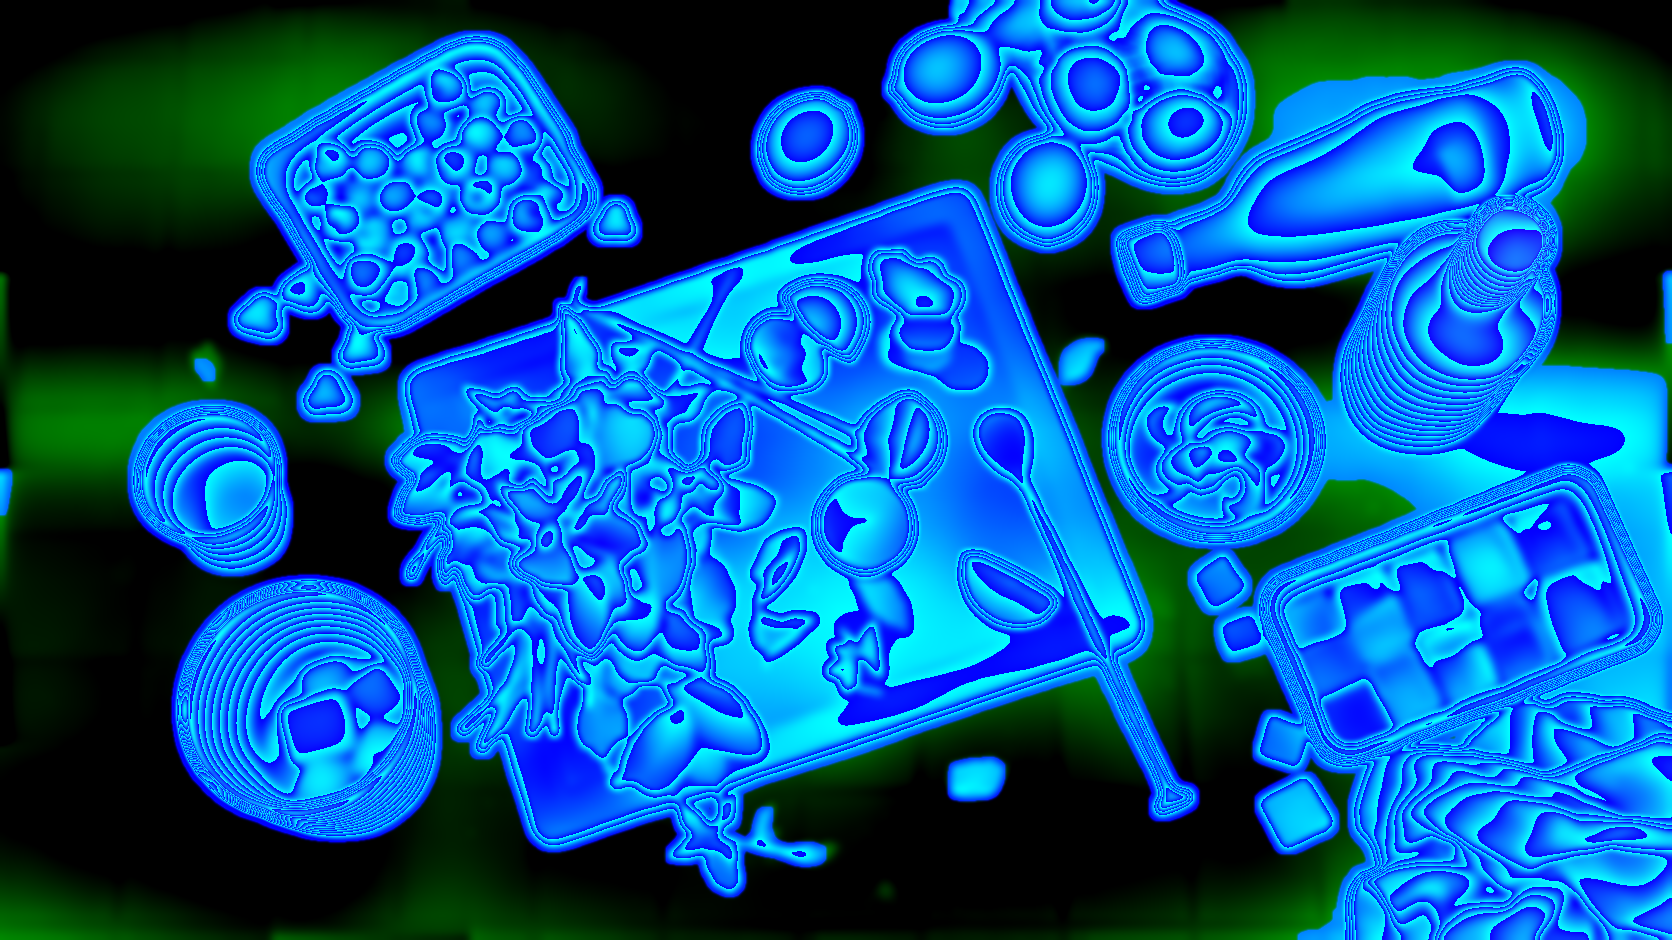
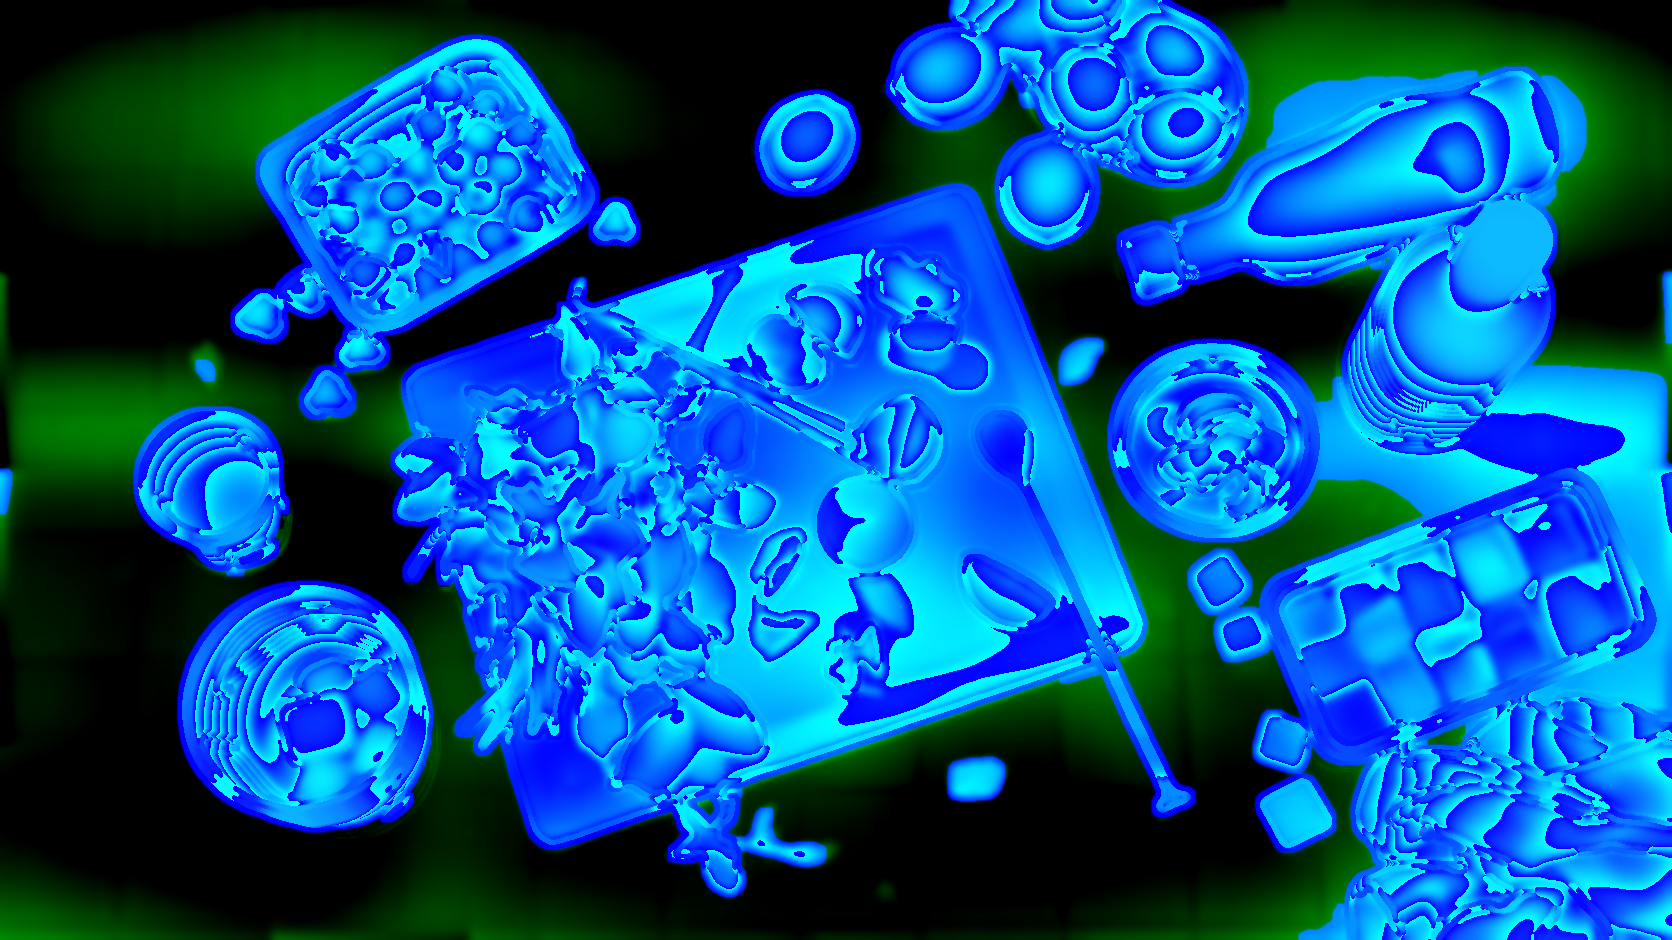
Fix the smearing bottle: sharp depth edges, shadowed gaps
- Depth data: soft knee on extreme heights (the standing red bottle was read
  as a 440 px spike) and min/max snapping turns soft ramps at object edges
  into clean steps
- New assets/behind.jpg: the colour just beyond each depth step
- Mesh no longer drops edge quads (that revealed the wrong layer, e.g. tiles
  through the board); the shader detects cliff triangles from the true height
  gradient over the photo and paints them with the darkened behind colour,
  so openings read as the object's shadow instead of a smear

Claude-Session: https://claude.ai/code/session_018KHXQH9KxvDLoAaCGYyVxC

Changed region(s): [[0.0622, 0.0, 1.0, 1.0], [0.4976, 0.6479, 0.5287, 0.7404]]

diff --git a/index.html b/index.html
@@ -269,12 +269,11 @@ function buildPhotoMesh(photoBmp, heightBmp){
     V[o + 3] = (px + 0.5) / W; V[o + 4] = (py + 0.5) / H;
   }
   // quads, skipping real depth edges; ordered low to high so soft edges blend over what's beneath
-  const CUT = 30, qa = [], qk = []; let hmax = 1;
+  const qa = [], qk = []; let hmax = 1;
   for (let gj = 0; gj < GH - 1; gj++) for (let gi = 0; gi < GW - 1; gi++){
     const a = gj * GW + gi, b = a + 1, c = a + GW, d = c + 1;
     if (idx[a] < 0 || idx[b] < 0 || idx[c] < 0 || idx[d] < 0) continue;
-    const lo = Math.min(vh[a], vh[b], vh[c], vh[d]), hi = Math.max(vh[a], vh[b], vh[c], vh[d]);
-    if (hi - lo > CUT) continue;
+    const hi = Math.max(vh[a], vh[b], vh[c], vh[d]);
     qa.push(a); qk.push(hi); if (hi > hmax) hmax = hi;
   }
   const NQ = qa.length, B = 1024, cnt = new Uint32Array(B + 1), keys = new Uint16Array(NQ);
@@ -506,30 +505,39 @@ const SPL = program(VS, FS, ["u_tex", "u_proj", "u_eye", "u_rot", "u_focal", "u_
 const BG = program(BG_VS, BG_FS, ["u_proj", "u_eye", "u_rot", "u_rect", "u_z", "u_bg"]);
 const MESH_VS = `#version 300 es
 precision highp float;
-uniform mat4 u_proj; uniform vec3 u_eye; uniform vec2 u_rot; uniform float u_depth, u_zt, u_eyez;
+uniform mat4 u_proj; uniform vec3 u_eye; uniform vec2 u_rot; uniform float u_depth, u_zt, u_eyez, u_pxs;
 layout(location = 0) in vec3 a_p;     // x, y on the tiles and height, in world units
 layout(location = 1) in vec2 a_uv;
-out vec2 v_uv;
+out vec2 v_uv; out float v_h;
 void main(){
   float z = -u_zt + a_p.z * u_depth;
   float f = (u_eyez - z) / (u_eyez + u_zt);                     // slide along the camera's ray: exact photo at rest
   vec3 cam = vec3(a_p.xy * f, z) - u_eye;
   cam.xy = vec2(u_rot.x * cam.x - u_rot.y * cam.y, u_rot.y * cam.x + u_rot.x * cam.y);
   gl_Position = u_proj * vec4(cam, 1.0);
-  v_uv = a_uv;
+  v_uv = a_uv; v_h = a_p.z * u_pxs;                           // height in photo pixels
 }`;
 const MESH_FS = `#version 300 es
 precision highp float;
-uniform sampler2D u_photo, u_mask; uniform vec2 u_img;
-in vec2 v_uv; out vec4 o;
+uniform sampler2D u_photo, u_mask, u_behind; uniform vec2 u_img;
+in vec2 v_uv; in float v_h; out vec4 o;
 void main(){
   vec2 px = v_uv * u_img;
   float bd = min(min(px.x, u_img.x - px.x), min(px.y, u_img.y - px.y));
   float a = texture(u_mask, v_uv).b * smoothstep(0.0, 40.0, bd);  // objects dissolve at the photo's very edge
   if (a < 0.01) discard;
-  o = vec4(texture(u_photo, v_uv).rgb * a, a);
+  // height change per photo pixel: ~0-3 on real surfaces, 10+ on the cliff joining an object to what's behind it.
+  // Cliffs get stretched open when you lean, so paint them with the colour of the surface behind.
+  // true gradient of height over the photo (chain rule through the screen-space Jacobian), so it
+  // stays correct however far the triangle has been stretched on screen
+  float hx = dFdx(v_h), hy = dFdy(v_h), ux = dFdx(px.x), uy = dFdy(px.x), vx = dFdx(px.y), vy = dFdy(px.y);
+  float det = ux * vy - vx * uy;
+  float slope = abs(det) < 1e-9 ? 99.0 : length(vec2(hx * vy - hy * vx, hy * ux - hx * uy)) / abs(det);
+  float cliff = smoothstep(4.0, 9.0, slope);
+  vec3 col = mix(texture(u_photo, v_uv).rgb, texture(u_behind, v_uv).rgb * 0.58, cliff);   // what's just behind an object sits in its shadow
+  o = vec4(col * a, a);
 }`;
-const MESH = program(MESH_VS, MESH_FS, ["u_proj", "u_eye", "u_rot", "u_depth", "u_zt", "u_eyez", "u_photo", "u_mask", "u_img"]);
+const MESH = program(MESH_VS, MESH_FS, ["u_proj", "u_eye", "u_rot", "u_depth", "u_zt", "u_eyez", "u_pxs", "u_photo", "u_mask", "u_behind", "u_img"]);
 function texFrom(bmp, unit, mips){
   const t = gl.createTexture(); gl.activeTexture(gl.TEXTURE0 + unit); gl.bindTexture(gl.TEXTURE_2D, t);
   gl.pixelStorei(gl.UNPACK_COLORSPACE_CONVERSION_WEBGL, gl.NONE); gl.pixelStorei(gl.UNPACK_PREMULTIPLY_ALPHA_WEBGL, false);
@@ -541,14 +549,14 @@ function texFrom(bmp, unit, mips){
   else gl.texParameteri(gl.TEXTURE_2D, gl.TEXTURE_MIN_FILTER, gl.LINEAR);
   gl.activeTexture(gl.TEXTURE0); return t;
 }
-function uploadMesh(M, photoBmp, heightBmp){
+function uploadMesh(M, photoBmp, heightBmp, behindBmp){
   const vao2 = gl.createVertexArray(); gl.bindVertexArray(vao2);
   const vb = gl.createBuffer(); gl.bindBuffer(gl.ARRAY_BUFFER, vb); gl.bufferData(gl.ARRAY_BUFFER, M.V, gl.STATIC_DRAW);
   gl.enableVertexAttribArray(0); gl.vertexAttribPointer(0, 3, gl.FLOAT, false, 20, 0);
   gl.enableVertexAttribArray(1); gl.vertexAttribPointer(1, 2, gl.FLOAT, false, 20, 12);
   const ib = gl.createBuffer(); gl.bindBuffer(gl.ELEMENT_ARRAY_BUFFER, ib); gl.bufferData(gl.ELEMENT_ARRAY_BUFFER, M.I, gl.STATIC_DRAW);
   gl.bindVertexArray(null);
-  mesh = { vao: vao2, count: M.I.length, n: M.n, W: M.W, H: M.H, photo: texFrom(photoBmp, 2, true), mask: texFrom(heightBmp, 3, false) };
+  mesh = { vao: vao2, count: M.I.length, n: M.n, W: M.W, H: M.H, photo: texFrom(photoBmp, 2, true), mask: texFrom(heightBmp, 3, false), behind: texFrom(behindBmp, 4, true) };
   gl.bindVertexArray(vao);
 }
 const U = SPL.u;
@@ -843,7 +851,7 @@ function frame(now){
     gl.useProgram(MESH.p);
     gl.uniformMatrix4fv(MESH.u.u_proj, false, proj); gl.uniform3f(MESH.u.u_eye, head.x, head.y, head.z); gl.uniform2f(MESH.u.u_rot, rc, rs);
     gl.uniform1f(MESH.u.u_depth, depthNow()); gl.uniform1f(MESH.u.u_zt, ZT); gl.uniform1f(MESH.u.u_eyez, EYE_Z);
-    gl.uniform1i(MESH.u.u_photo, 2); gl.uniform1i(MESH.u.u_mask, 3); gl.uniform2f(MESH.u.u_img, mesh.W, mesh.H);
+    gl.uniform1i(MESH.u.u_photo, 2); gl.uniform1i(MESH.u.u_mask, 3); gl.uniform1i(MESH.u.u_behind, 4); gl.uniform1f(MESH.u.u_pxs, 1 / photoGeo.s); gl.uniform2f(MESH.u.u_img, mesh.W, mesh.H);
     gl.enable(gl.DEPTH_TEST); gl.depthFunc(gl.LEQUAL); gl.depthMask(true);
     gl.enable(gl.BLEND); gl.blendFunc(gl.ONE, gl.ONE_MINUS_SRC_ALPHA);
     gl.bindVertexArray(mesh.vao); gl.drawElements(gl.TRIANGLES, mesh.count, gl.UNSIGNED_INT, 0); gl.bindVertexArray(vao);
@@ -903,13 +911,13 @@ async function boot(){
   try {
     const step = (t) => { $("loadstep").textContent = t; };
     step("loading photo");
-    const [photo, height, table] = await Promise.all([loadImage("assets/photo.jpg"), loadImage("assets/height.png"), loadImage("assets/table.jpg")]);
+    const [photo, height, table, behind] = await Promise.all([loadImage("assets/photo.jpg"), loadImage("assets/height.png"), loadImage("assets/table.jpg"), loadImage("assets/behind.jpg")]);
     step("lifting it into depth");
     await new Promise(r => setTimeout(r, 20));
     const t0 = performance.now();
     const M = buildPhotoMesh(photo, height);
     uploadBackground(table);
-    uploadMesh(M, photo, height);
+    uploadMesh(M, photo, height, behind);
     showPhoto();
     window.__window.buildMs = Math.round(performance.now() - t0);
     $("loader").classList.add("done");

diff --git a/tools/prep.py b/tools/prep.py
@@ -24,6 +24,39 @@ tn = h[sel.reshape(H,W)]; print('rim res', rim, 'k', k, 'bottle cap px', np.perc
 guide = cv2.cvtColor(img, cv2.COLOR_BGR2RGB).astype(np.float32) / 255
 hg = cv2.ximgproc.guidedFilter(guide, h.astype(np.float32), 4, 25.0)
 hg = np.maximum(hg, 0)
+# 3b) tame extreme heights with a soft knee: a standing bottle seen slightly from the side reads as a
+#     huge spike to a monocular depth model, and a spike that tall smears when you lean
+K0, K1 = 120.0, 100.0
+hg = np.where(hg > K0, K0 + K1 * np.tanh((hg - K0) / K1), hg).astype(np.float32)
+# 3c) turn soft depth ramps at object edges into clean steps (snap each edge pixel to the nearer of the
+#     local min/max), so objects separate from what's behind them instead of dragging it along
+ker = np.ones((9, 9), np.uint8)
+for _ in range(3):
+    mx = cv2.dilate(hg, ker); mn = cv2.erode(hg, ker)
+    edge = (mx - mn) > 20
+    snap = np.where(hg - mn < mx - hg, mn, mx)
+    hg = np.where(edge, snap, hg).astype(np.float32)
+hg = cv2.medianBlur(hg, 5)
+# 3d) "behind" colours for cliffs: on the high side of every depth step, replace the colour with the
+#     colour of the surface just beyond it (pushed in from the low side). The renderer paints stretched
+#     cliff triangles with this, so a gap opening beside the ginger shows board, beside a lime shows tile.
+k5 = np.ones((5, 5), np.uint8)
+hi_side = ((hg - cv2.erode(hg, k5)) > 20) & ((cv2.dilate(hg, k5) - hg) < 6)
+band = cv2.dilate(hi_side.astype(np.uint8), np.ones((9, 9), np.uint8)).astype(bool)
+low_ok = ((hg - cv2.erode(hg, np.ones((15, 15), np.uint8))) < 10) & ~band
+def pushpull_f(im, w):
+    pyr = [(im * w[..., None], w)]
+    while min(pyr[-1][1].shape) > 8:
+        a_, b_ = pyr[-1]; pyr.append((cv2.pyrDown(a_), cv2.pyrDown(b_)))
+    acc, wacc = pyr[-1]; est = acc / np.maximum(wacc, 1e-6)[..., None]
+    for a_, b_ in reversed(pyr[:-1]):
+        up = cv2.resize(est, (a_.shape[1], a_.shape[0]), interpolation=cv2.INTER_LINEAR)
+        here = a_ / np.maximum(b_, 1e-6)[..., None]; k = np.clip(b_ * 4, 0, 1)[..., None]
+        est = here * k + up * (1 - k)
+    return est
+behind = pushpull_f(img.astype(np.float32), low_ok.astype(np.float32))
+farcol = img.astype(np.float32).copy(); farcol[band] = behind[band]
+print('cliff band px', int(band.sum()))
 # 4) object mask: anything clearly above the tiles (threshold from the tile noise)
 THR = max(9.0, float(np.percentile(np.abs(hg[sel.reshape(H,W)]), 97)) * 1.15); print('thr', THR)
 m = (hg > THR).astype(np.uint8)
@@ -79,6 +112,7 @@ fall = (0.12 + 0.88 * np.exp(-r * 7.5))[..., None]
 ext = np.clip(ext * fall, 0, 255).astype(np.uint8)
 cv2.imwrite('./work/table_ext.jpg', ext, [cv2.IMWRITE_JPEG_QUALITY, 93])
 cv2.imwrite('./work/photo.jpg', img_v, [cv2.IMWRITE_JPEG_QUALITY, 96])
+cv2.imwrite('./work/behind.jpg', np.clip(farcol * edgefade, 0, 255).astype(np.uint8), [cv2.IMWRITE_JPEG_QUALITY, 90])
 # 7) height (16-bit, 1/16 px units) + alpha packed into one PNG
 hq = np.clip(hg * 16, 0, 65535).astype(np.uint16)
 pack = np.dstack([(alpha * 255).astype(np.uint8), (hq & 255).astype(np.uint8), (hq >> 8).astype(np.uint8)])   # BGR order -> R=hi, G=lo, B=alpha

diff --git a/README.md b/README.md
@@ -11,8 +11,9 @@ Live: https://pfolio-headtrack-test.vercel.app
 3. **Heights.** A smooth surface is fitted to the green tiles and subtracted, so the tiles read as flat and everything on them gets a height (scaled so the tumbler is about as tall as it is wide).
 4. **Layers.**
    - `assets/table.jpg`: the tiles with the objects removed. Underneath each object the fill darkens like a contact shadow, and past the photo's edges it falls off into darkness.
-   - `assets/height.png`: per-pixel height (R = high byte, G = low byte, in 1/16 px) and the object mask (B).
-5. **Render.** WebGL2. The tiles are one textured quad. The objects are a textured depth mesh: a vertex every 2 photo pixels (~250k), slid along the camera's ray so the resting view reproduces the photo exactly. Colour and edge alpha are sampled per fragment straight from the photo and mask, so it is as sharp as the source. Quads spanning a real depth edge are dropped, so leaning reveals the table layer instead of stretched pixels. (The gaussian-splat renderer is still there for `.ply` / `.splat` captures.)
+   - `assets/height.png`: per-pixel height (R = high byte, G = low byte, in 1/16 px) and the object mask (B). Very tall spikes are softened (a standing bottle seen slightly from the side reads as a huge spike to a monocular depth model), and soft depth ramps at object edges are snapped into clean steps.
+   - `assets/behind.jpg`: on the high side of every depth step, the colour of the surface just beyond it.
+5. **Render.** WebGL2. The tiles are one textured quad. The objects are a textured depth mesh: a vertex every 2 photo pixels (~250k), slid along the camera's ray so the resting view reproduces the photo exactly. Colour and edge alpha are sampled per fragment straight from the photo and mask, so it is as sharp as the source. Where you lean and an edge opens up, the stretched cliff surface (detected per pixel from the height gradient over the photo) is painted with the darkened colour of what's behind, so the gap reads as the object's shadow instead of a smear. (The gaussian-splat renderer is still there for `.ply` / `.splat` captures.)
 6. **Window effect.** Off-axis (asymmetric frustum) projection from the head position: left/right, up/down and tilt. Distance is locked, so there's no zoom.
 7. **Head tracking.** MediaPipe Face Landmarker on every webcam frame. An adaptive One Euro filter smooths while you're still and opens up when you move, with a short damped prediction for camera latency and a ~40 ms critically damped spring.
 
